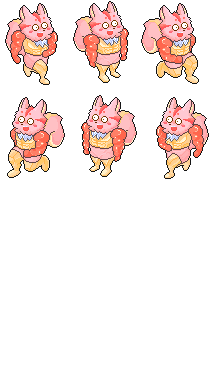
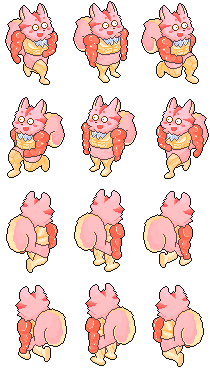
画像更新

diff --git a/HewProject/HewProject/TextureFactory.cpp b/HewProject/HewProject/TextureFactory.cpp
@@ -80,6 +80,14 @@ void TextureFactory::Load()
 		L"asset/Player/Baum_Up.png",
 		L"asset/Player/Player_CanonMove.png",
 
+		L"asset/Player/F_Aseri.png",
+		L"asset/Player/F_Drink.png",
+		L"asset/Player/M_Aseri.png",
+		L"asset/Player/N_Aseri.png",
+		L"asset/Player/N_Drink.png",
+		L"asset/Player/T_Aseri.png",
+		L"asset/Player/T_Drink.png",
+
 		L"asset/Stage/floor_y.png",
 		L"asset/Stage/floor_g.png",
 		L"asset/Stage/2floor_y.png",
